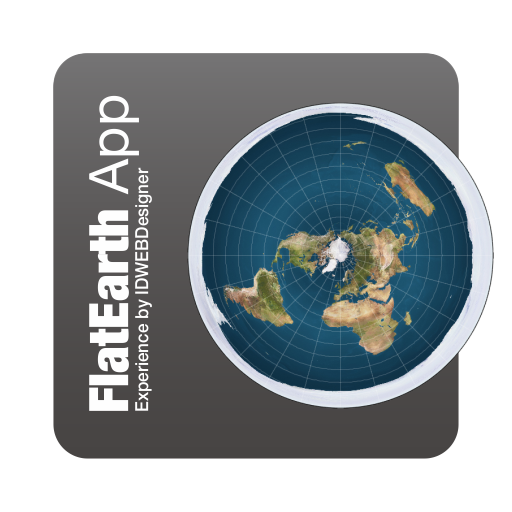
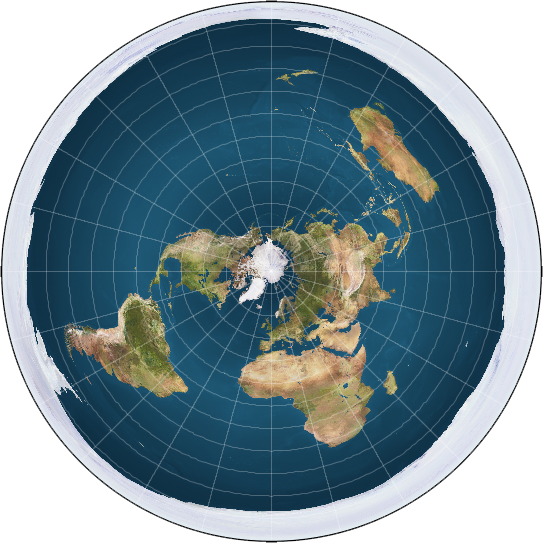
faridiot

diff --git a/css/style.css b/css/style.css
@@ -24,7 +24,7 @@
 html, body {
   height: 100%;
   width: 100%;
-  margin: 0; overflow: hidden;
+  margin-top: -0%; margin-left: -0%; overflow: hidden;
 }
 
 body {
@@ -32,8 +32,9 @@ body {
   -webkit-font-smoothing: antialiased;
   color: #fff;
   background: -webkit-radial-gradient(bottom ellipse, #1c2837 0%, #050608 100%);
-  background: radial-gradient(ellipse at bottom, #1c2837 0%, #050608 100%);
+  background-image: url("../img/sky.png");
   background-attachment: fixed;
+  background-position: center;
 }
 
 h1 {
@@ -63,7 +64,7 @@ a.icon, a:visited.icon {
   position: absolute;
   top: 0;
   left: 0;
-  width: 60%;
+  width: 75%;
   z-index: 999;
 }
 .description p {
@@ -92,6 +93,12 @@ code {
   color: #ae94c0;
   font-family: Menlo, Monaco, Consolas, 'Courier New', monospace;
   font-size: .9em;
+}
+
+.universe {
+  background-image: url("../img/universe.png");
+  width: 100%;height: 100%;
+  background-position: center;
 }
 
 .solar-syst {
@@ -318,7 +325,7 @@ code {
   overflow: hidden;
 }
 .asteroids-belt:before {
-  top: 50%;
+  top: 50%;s
   height: 210px;
   width: 210px;
   margin-left: -105px;

diff --git a/index.html b/index.html
@@ -29,6 +29,12 @@
     <a class='fa fa-twitter icon' href='https://twitter.com/Dathink' target='_blank'></a>
   </p>
 </div>
+      <div class="universe"></div>
+<div><img style="width: 300px;height: 300px;
+  position: fixed; /* or absolute */
+  top: 50%;
+  left: 50%;margin-top: -150px;
+  margin-left: -150px;" src="img/flatearth.png"> </div>
 <div class='solar-syst'>
   <div class='sun'></div>
   <div class='mercury'></div>
